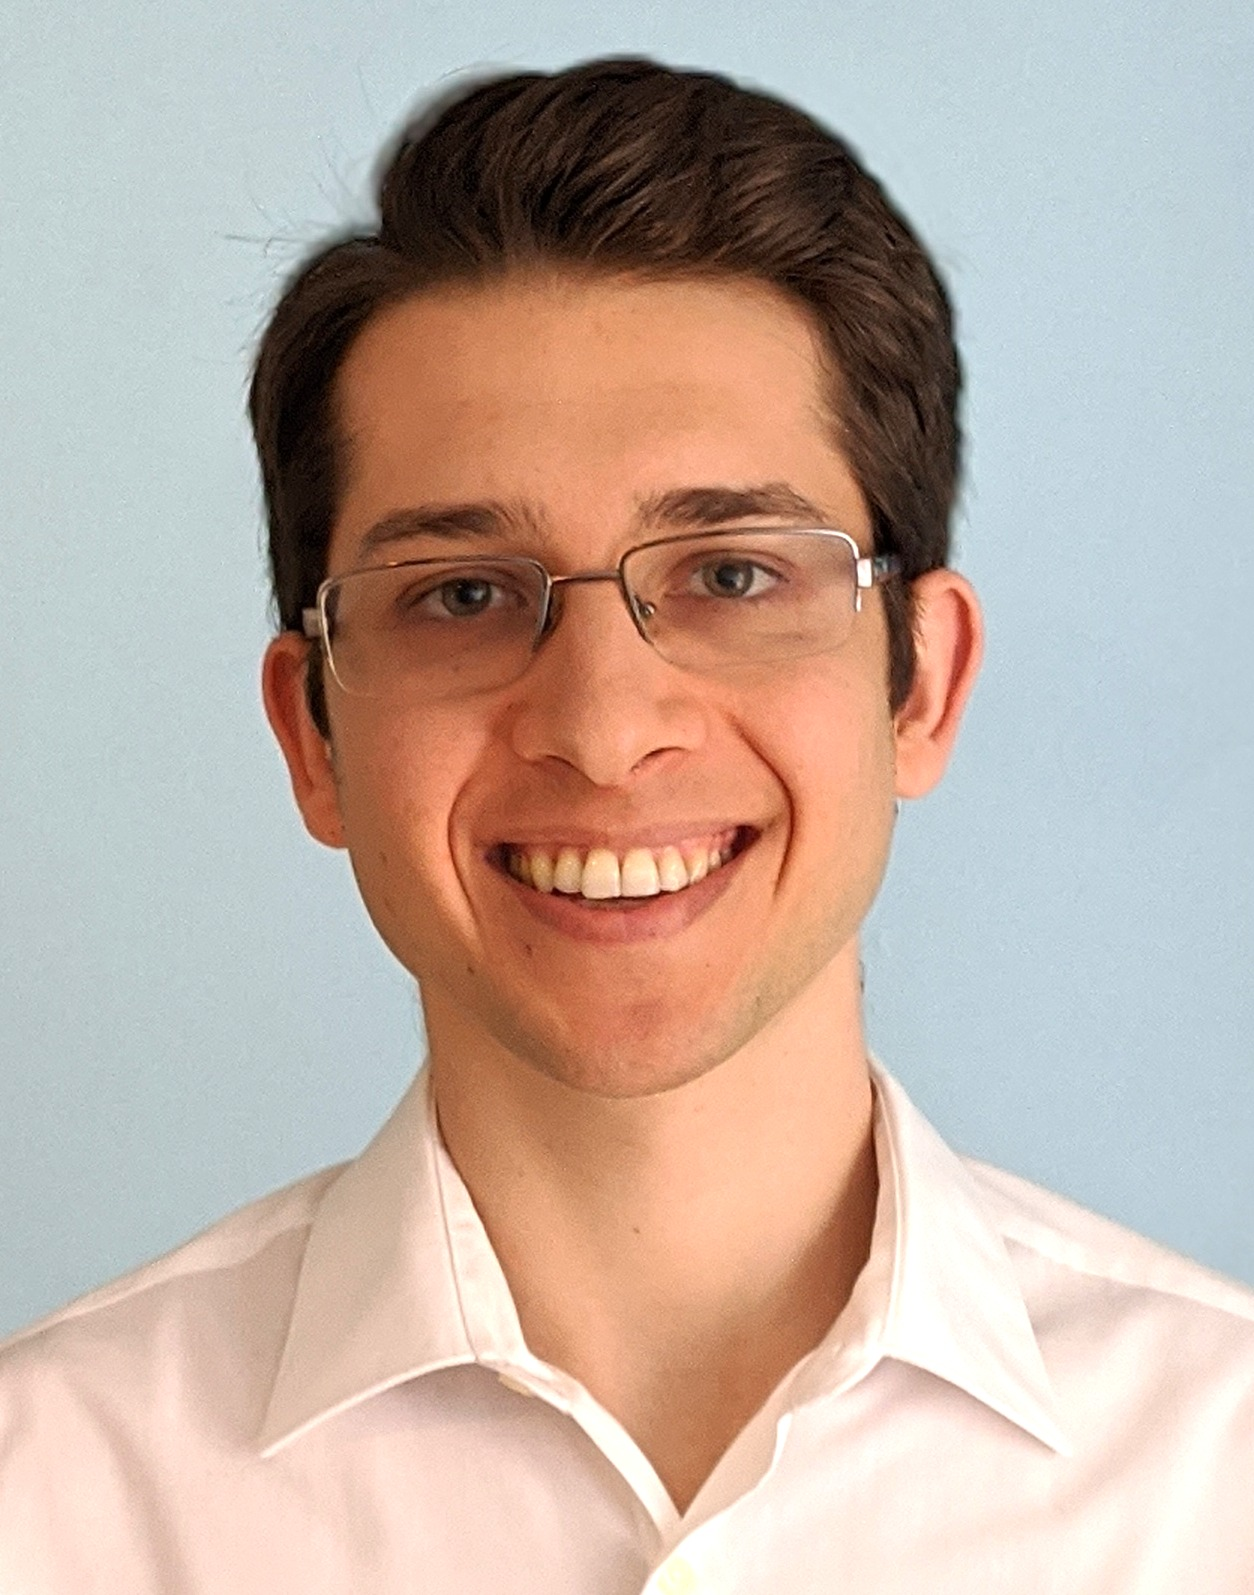
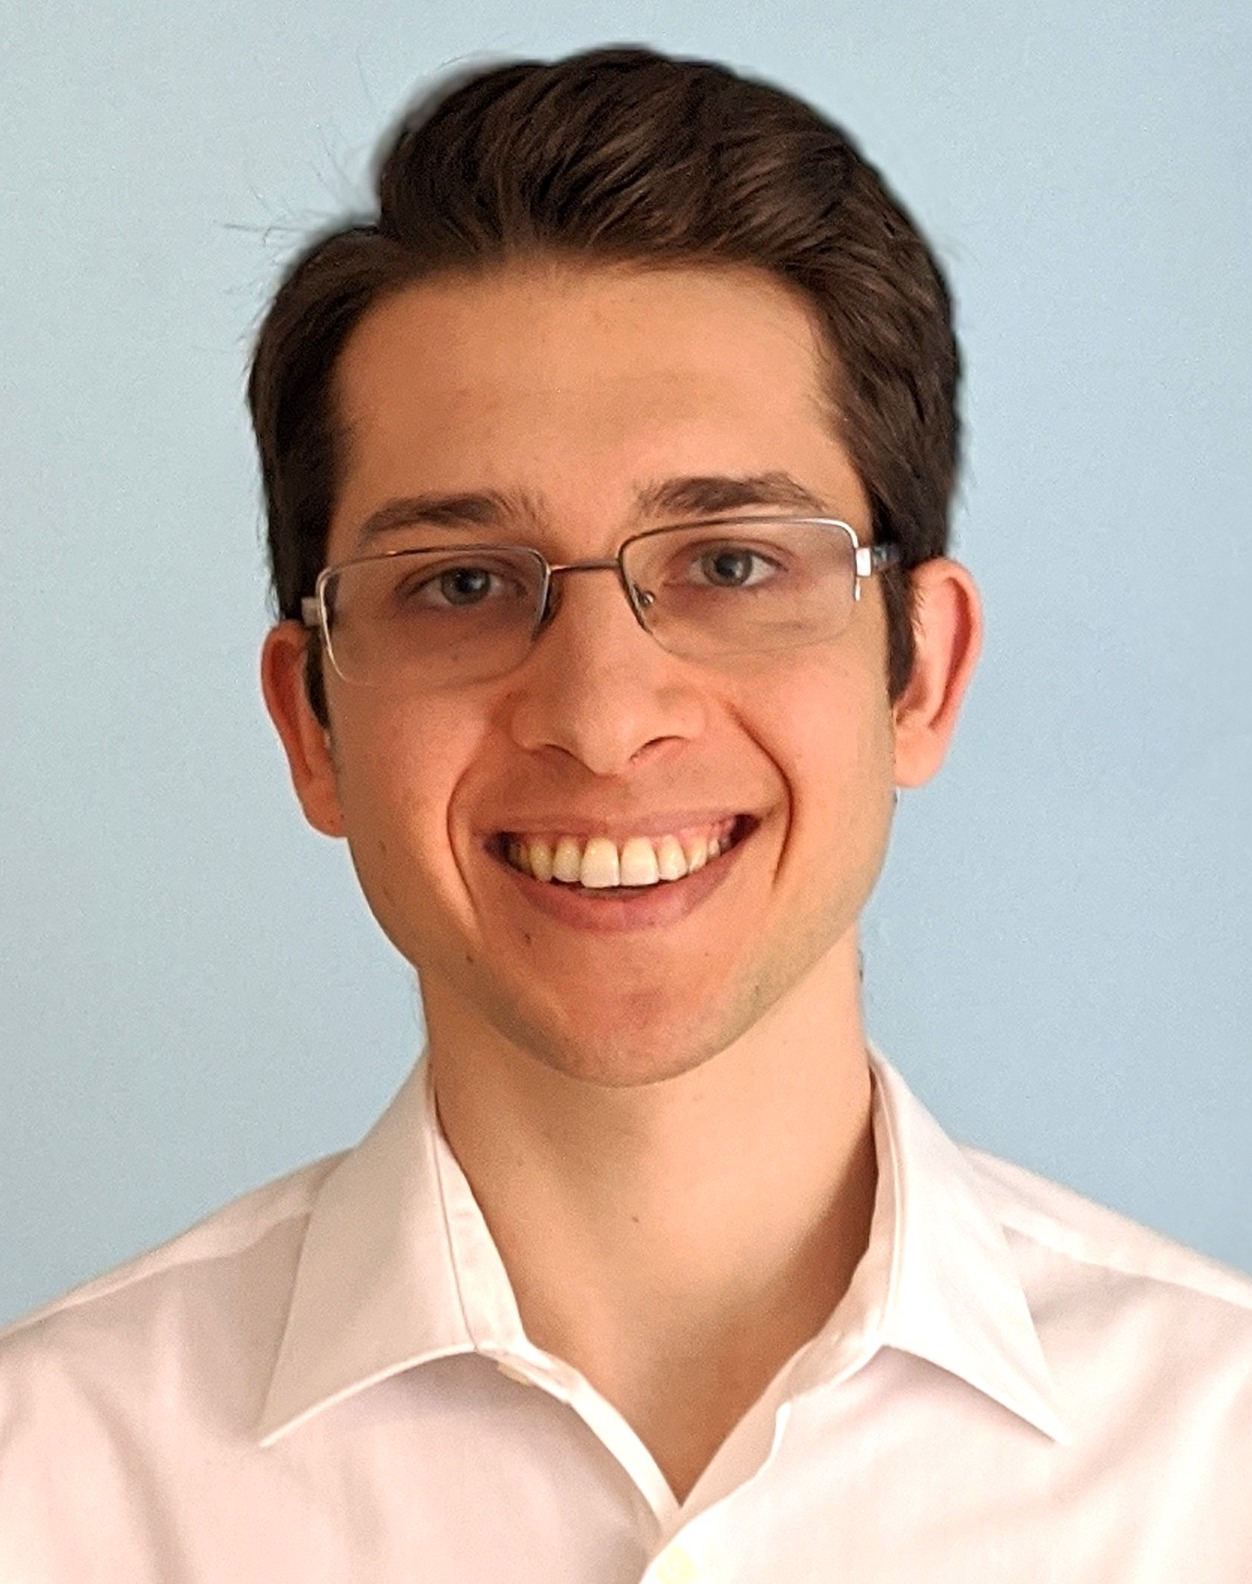
Updated staff info

diff --git a/_layouts/staffer.html b/_layouts/staffer.html
@@ -17,10 +17,10 @@
     <p><a href="mailto:{{ page.email }}">{{ page.email }}</a></p>
     {% endif %}
     {% if page.info %}
-    <p class="staffer-meta">{{ page.info | markdownify | strip_html }}</p>
+    <p>{{ page.info | markdownify | strip_html }}</p>
     {% endif %}
     {% if page.office-hours %}
-    <p class="staffer-meta">Office Hours: {{ page.office-hours }}</p>
+    <p>Office Hours: {{ page.office-hours | markdownify | strip_html }}</p>
     {% endif %}
     {{ content }}
   </div>

diff --git a/_sass/custom/staffer.scss b/_sass/custom/staffer.scss
@@ -3,7 +3,7 @@
   margin: $sp-4;
 
   .staffer-image {
-    border-radius: 50%;
+    border-radius: 0;
     height: 100px;
     margin-right: $sp-4;
   }

diff --git a/staff.md b/staff.md
@@ -14,7 +14,7 @@ nav_order: 9
 {{ staffer }}
 {% endfor %}
 
-## Head TA
+## Head Teaching Assistant
 
 {% assign head_tas = site.staffers | where: 'role', 'Head TA' %}
 {% for staffer in head_tas %}
